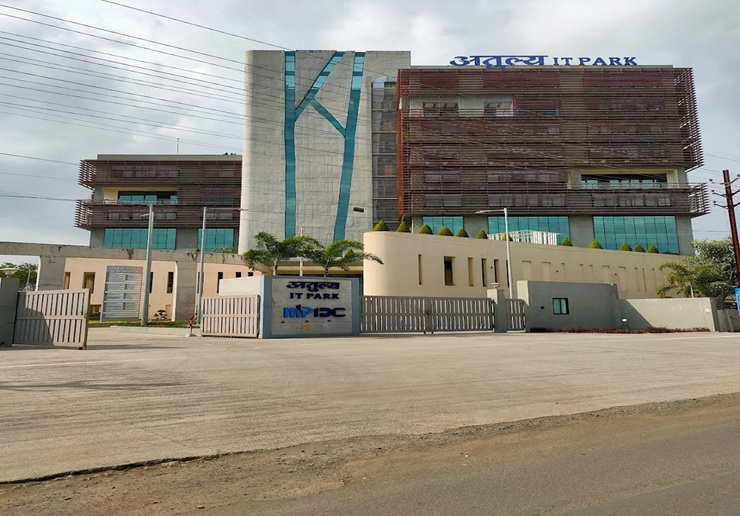
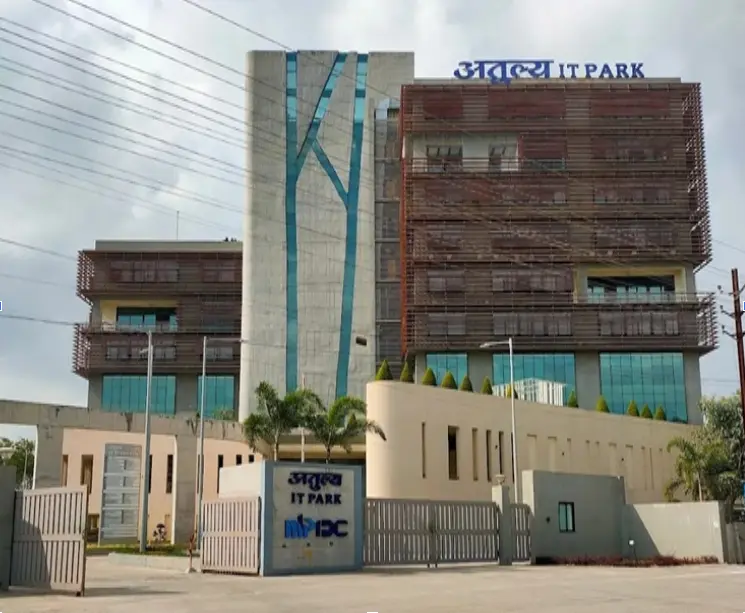
update IoT Services and IoT rojects in Portfolio

diff --git a/client/src/pages/portfolio/Portfolio.jsx b/client/src/pages/portfolio/Portfolio.jsx
@@ -196,18 +196,20 @@ const iotProjects = [
   {
     title: "Sleep Monitoring IoT Device",
     category: "Embedded Systems & IoT",
+    heading:"Embedded Systems & Edge IoT",
     industry: "Healthcare & Wellness",
     description:
       "Multi-sensor IoT device designed to monitor sleep patterns and environmental factors such as light, noise, temperature, and motion. Integrated edge computing using AWS Greengrass for real-time analysis and insights.",
-    tech: ["IoT Sensors", "Embedded Systems", "AWS Greengrass", "Edge Computing"],
+    tech: ["IoT Sensors", "Embedded Systems", "AWS Greengrass", "Edge Computing","Raspberry Pi 5", "Radar System"],
   },
   {
-    title: "Smart Pet Activity Tracker",
+    title: "Pawzmo - Smart Pet Activity Tracker",
     category: "Embedded Systems & IoT",
+    heading:"Embedded Systems & IoT",
     industry: "Pet Care & Wearables",
     description:
       "Wearable IoT device and companion mobile app for tracking pet activities like walking, running, sleeping, and eating using IMU and temperature sensors with BLE and Wi-Fi connectivity.",
-    tech: ["IMU Sensors", "BLE", "Wi-Fi", "Mobile App", "IoT"],
+    tech: ["nRF","BLE","IoT", "ESP", "IMU Sensors", "Mobile App", ],
   },
   {
     title: "UV Disinfectant Shelf",
@@ -220,6 +222,7 @@ const iotProjects = [
   {
     title: "Wireless UV Disinfectant Machine",
     category: "Embedded Systems & IoT",
+    heading:"Embedded Systems",
     industry: "Public Safety & Hygiene",
     description:
       "Remote-controlled UV disinfection machine leveraging UVC light and RF-based wireless activation to safely sanitize environments and surfaces.",
@@ -244,6 +247,7 @@ const iotProjects = [
   {
     title: "Secured LoRa-Based Communication System",
     category: "Embedded Systems & IoT",
+    heading:"Embedded Systems",
     industry: "Defense & Military Communication",
     description:
       "Secure bidirectional LoRaWAN-based communication system for military environments, implementing AES and PBKDF2 encryption for confidential data transmission.",
@@ -260,14 +264,16 @@ const iotProjects = [
   {
     title: "Women Safety & Emergency Response System",
     category: "Embedded Systems & IoT",
+    heading:"Embedded Systems & edge IoT",
     industry: "Public Safety",
     description:
       "IoT-enabled women safety system combining sensors, AI analysis, GPS tracking, camera capture, and emergency alerts to pre-stored contacts during critical situations.",
     tech: ["IoT Sensors", "GPS", "Camera Module", "AI Integration"],
   },
   {
-    title: "Anxiety Detection using AI & Biometric Sensors",
+    title: "AI-Powered Arrhythmia Detection System",
     category: "Embedded Systems & IoT",
+    heading:"Embedded Systems & edge IoT",
     industry: "Mental Health & Wellness",
     description:
       "AI-powered anxiety detection system using EEG, heart rate, GSR, and brainwave sensors integrated with IoT controllers for real-time emotional state assessment.",
@@ -276,6 +282,7 @@ const iotProjects = [
   {
     title: "AI-Based Fire Detection using CCTV",
     category: "Embedded Systems & IoT",
+    heading:"Embedded Systems & edge IoT",
     industry: "Safety & Surveillance",
     description:
       "AI-driven fire detection system utilizing existing CCTV infrastructure and RTSP streams to detect fire patterns in real time and trigger alerts via a monitoring GUI.",
@@ -292,6 +299,7 @@ const iotProjects = [
   {
     title: "Humanoid Robot – Ahilya (Arya V1 & V2)",
     category: "Embedded Systems & IoT",
+    heading:"Embedded Systems & Robotics",
     industry: "Robotics & Smart Automation",
     description:
       "Humanoid robots designed for interactive assistance, hospitality, and guided tours with speech recognition, face recognition, and personalized user interaction.",
@@ -300,6 +308,7 @@ const iotProjects = [
   {
     title: "Kevin – Humanoid Serving Robot",
     category: "Embedded Systems & IoT",
+    heading: "Embedded Systems & Robotics",
     industry: "Service Robotics",
     description:
       "IoT-enabled humanoid serving robot controlled via a mobile app, capable of navigation, object delivery, and interactive service in hospitality and healthcare environments.",
@@ -727,7 +736,7 @@ useEffect(() => {
                 style={{ "--delay": `${0.15 + i * 0.1}s` }}
               >
                 <span className="rtx-project-category">
-                  {item.category}
+                  {(item.heading) ? item.heading : item.category}
                 </span>
 
                 <h3>{item.title}</h3>

diff --git a/client/src/pages/services/embedded-Iot/EmbeddedIoT.jsx b/client/src/pages/services/embedded-Iot/EmbeddedIoT.jsx
@@ -8,24 +8,21 @@ import ServicesHero from "../../../components/services/ServicesHero";
 const steps = [
   {
     title: "Research & System Architecture",
-    desc: "In-depth R&D to define hardware requirements, system architecture, and communication protocols for scalable embedded and IoT systems.",
+    desc: "In-depth research to define requirements, system architecture, hardware selection, and communication protocols for scalable embedded and IoT solutions.",
   },
   {
-    title: "Hardware Development & PCB Design",
-    desc: "Design and development of reliable 2-layer and multilayer PCBs using DipTrace, EAGLE, and KiCAD.",
-  },
-  {
-    title: "Firmware Development",
-    desc: "Optimized and secure firmware development for microcontrollers and processors using C/C++, Lua, and Python.",
+    title: "Hardware & Firmware Development",
+    desc: "Design and development of reliable PCBs and secure, optimized firmware for microcontrollers and processors using C/C++, Lua, and Python.",
   },
   {
     title: "IoT Integration & Edge Computing",
-    desc: "Connecting devices, sensors, and cloud platforms using MQTT, AWS IoT Core, and AWS Greengrass for real-time intelligence.",
+    desc: "Seamless integration of devices, sensors, and cloud platforms using MQTT, AWS IoT Core, and edge computing for real-time data processing.",
   },
   {
     title: "Testing, Deployment & Optimization",
-    desc: "Simulation, testing, and optimization to ensure reliability, performance, and long-term scalability.",
+    desc: "Comprehensive testing, simulation, deployment, and performance optimization to ensure reliability, scalability, and long-term system stability.",
   },
+  
 ];
 
 const industries = [
@@ -151,8 +148,10 @@ const EmbeddedIoT = () => {
           title="Embedded Systems &"
           accent="IoT Solutions"
           paragraphs={[
-            "At Robotronix Engineering Tech Pvt. Ltd., we specialize in Embedded Systems and Internet of Things (IoT) development — creating intelligent, connected, and high-performance solutions for modern industries.",
-            "Our expertise spans hardware design, firmware development, edge computing, and IoT integration, enabling smarter automation, operational efficiency, and real-time insights across industries.",
+            "At Robotronix Engineering Tech Pvt. Ltd., we specialize in Embedded Systems and IoT solutions, delivering intelligent, secure, and scalable technology for next-generation applications while bridging hardware and software seamlessly.",
+"With expertise in custom hardware design, firmware development, real-time embedded software, and edge computing, we help businesses turn ideas into reliable, production-ready products with a focus on stability and scalability.",
+"From sensor-level data acquisition to cloud connectivity and analytics, we build end-to-end IoT solutions that enable smarter automation, operational efficiency, and real-time decision-making."
+
           ]}
           infoCards={infoCards}
         />

diff --git a/client/src/routes/RouteConfig.jsx b/client/src/routes/RouteConfig.jsx
@@ -86,14 +86,14 @@ export const routesConfig = [
     label: "Culture",
     nav: "about",
   },
-  {
-    path: ROUTE_PATHS.VISION_MISSION,
-    component: lazy(() =>
-      import("../pages/about-us/vision-mission/VisionMission")
-    ),
-    label: "Vision & Mission",
-    nav: "about",
-  },
+  // {
+  //   path: ROUTE_PATHS.VISION_MISSION,
+  //   component: lazy(() =>
+  //     import("../pages/about-us/vision-mission/VisionMission")
+  //   ),
+  //   label: "Vision & Mission",
+  //   nav: "about",
+  // },
 
   // ===== MAIN =====
   {

diff --git a/client/src/styles/pages/portfolio.css b/client/src/styles/pages/portfolio.css
@@ -229,7 +229,9 @@ gap: var(--space-card-gap);
 .rtx-project-category {
   display: inline-block;
    margin-bottom: var(--space-xs);
- font-size: var(--fs-chip);
+ /* font-size: var(--fs-chip); */
+ font-size: 0.8rem;
+ font-weight: 600;
 
   letter-spacing: 0.08em;
   text-transform: uppercase;

diff --git a/client/src/styles/pages/about.css b/client/src/styles/pages/about.css
@@ -959,9 +959,6 @@
 .rtx-vision-section {
   position: relative;
 }
-.rtx-vision-content{
-  /* display: flex; */
-}
 
 /* Title */
 .rtx-vision-title {
